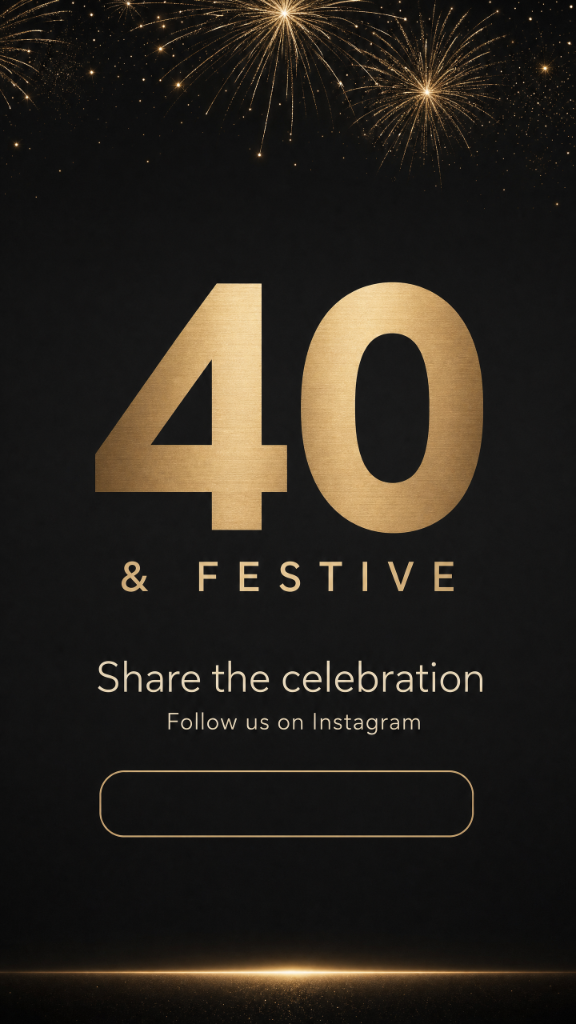
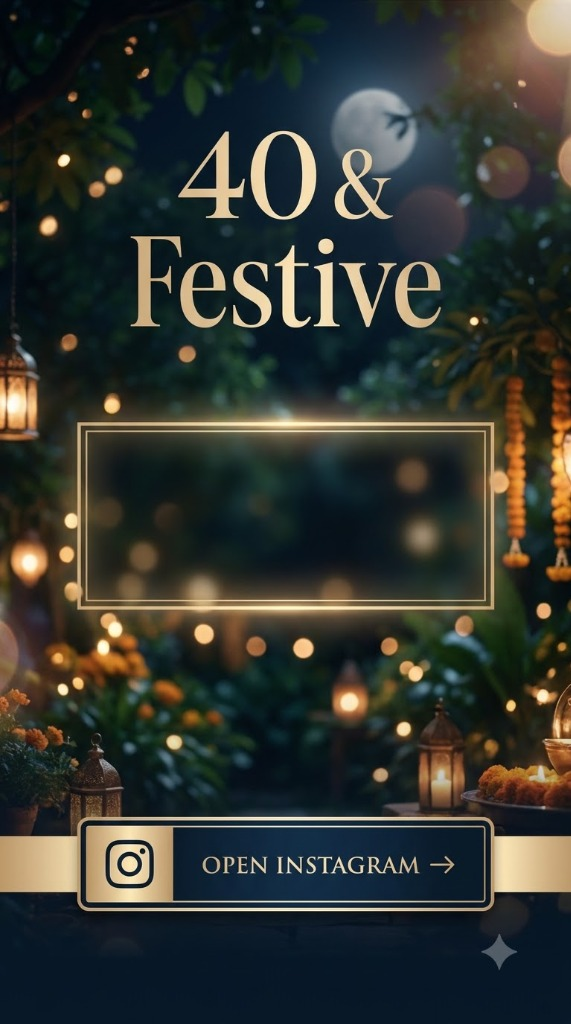
feat: use new Festive Garden 40 & Festive artwork for Instagram page with dynamic golden box text and direct deep-linking

diff --git a/src/components/InstaScreen.tsx b/src/components/InstaScreen.tsx
@@ -9,7 +9,6 @@ interface Props {
 }
 
 export default function InstaScreen({ guest, inviteCode }: Props) {
-  const [copied, setCopied] = useState(false)
   const [tapped, setTapped] = useState(false)
 
   // Resolve strictly individual first name or nickname (never couple!)
@@ -66,10 +65,10 @@ export default function InstaScreen({ guest, inviteCode }: Props) {
   return (
     <div
       onClick={handleOpenInstagram}
-      className="relative w-full h-[100dvh] bg-[#02050B] flex items-center justify-center overflow-hidden cursor-pointer select-none"
+      className="relative w-full h-[100dvh] bg-gradient-to-b from-[#020A15] to-[#081827] flex items-center justify-center overflow-hidden cursor-pointer select-none"
     >
-      {/* 9:16 Portrait Canvas */}
-      <div className="relative w-full max-w-[480px] h-full max-h-[920px] aspect-[9/16] shadow-2xl overflow-hidden flex flex-col justify-between">
+      {/* 571:1024 Portrait Canvas (Matches artwork aspect ratio perfectly) */}
+      <div className="relative w-full max-w-[480px] h-full max-h-[100dvh] aspect-[571/1024] shadow-2xl overflow-hidden flex flex-col justify-between">
         
         {/* Background Artwork */}
         {/* eslint-disable-next-line @next/next/no-img-element */}
@@ -79,30 +78,54 @@ export default function InstaScreen({ guest, inviteCode }: Props) {
           className="absolute inset-0 w-full h-full object-cover pointer-events-none"
         />
 
-        {/* Dynamic Personalised Individual Name (Positioned above Share the celebration) */}
-        {individualName && (
-          <div
-            className="absolute left-0 right-0 text-center pointer-events-none"
-            style={{ top: '61.8%' }}
-          >
-            <p
-              className="text-[#FFF2C2] text-sm sm:text-base tracking-[0.22em] font-serif uppercase font-bold drop-shadow-[0_2px_4px_rgba(0,0,0,0.9)]"
-              style={{
-                textShadow: '0 0 12px rgba(229,190,114,0.6), 0 2px 4px #000000',
-                background: 'linear-gradient(180deg, #FFFFFF 0%, #FFE699 40%, #D4AF37 100%)',
-                WebkitBackgroundClip: 'text',
-                WebkitTextFillColor: 'transparent',
-              }}
-            >
-              DEAR {individualName.toUpperCase()}
-            </p>
-          </div>
-        )}
-
-        {/* Interactive Pill Button Overlay (Positioned exactly over the button in background) */}
+        {/* Dynamic Personalised Golden Box Content (Matches central glowing box) */}
         <div
-          className="absolute left-0 right-0 flex justify-center items-center"
-          style={{ top: '74.2%', height: '7.5%' }}
+          className="absolute flex flex-col items-center justify-center text-center px-4 pointer-events-none"
+          style={{
+            top: '41.7%',
+            left: '14%',
+            width: '72%',
+            height: '16.8%',
+          }}
+        >
+          {/* Top Hook */}
+          <div
+            className="font-serif text-[12px] sm:text-[14px] font-extrabold tracking-[0.14em] uppercase mb-1 drop-shadow-[0_2px_8px_rgba(0,0,0,0.95)]"
+            style={{
+              background: 'linear-gradient(180deg, #FFFFFF 0%, #FFE89E 50%, #E5BE72 100%)',
+              WebkitBackgroundClip: 'text',
+              WebkitTextFillColor: 'transparent',
+            }}
+          >
+            THE PARTY • THE PEOPLE • THE REELS
+          </div>
+
+          {/* Guest Personalization */}
+          <div className="font-sans text-[11px] sm:text-[12.5px] text-white/95 leading-snug mb-1 drop-shadow-[0_1px_4px_rgba(0,0,0,0.9)] max-w-[340px]">
+            {individualName ? (
+              <>
+                Hey <strong className="text-[#FFE699] font-bold">{individualName}</strong>, your access to our celebration continues on Instagram.
+              </>
+            ) : (
+              <>Your access to our celebration continues on Instagram.</>
+            )}
+          </div>
+
+          {/* Subtitle */}
+          <div className="font-sans text-[9.5px] sm:text-[11px] text-[#E5D0A1]/85 leading-snug max-w-[320px]">
+            Watch the cameraman&apos;s reels &amp; catch the celebration moments.
+          </div>
+        </div>
+
+        {/* Interactive Hit-target Overlay directly over the bottom [ OPEN INSTAGRAM ➔ ] ribbon */}
+        <div
+          className="absolute flex justify-center items-center"
+          style={{
+            top: '81.8%',
+            left: '13.6%',
+            width: '72.8%',
+            height: '8.1%',
+          }}
         >
           <button
             type="button"
@@ -110,55 +133,27 @@ export default function InstaScreen({ guest, inviteCode }: Props) {
               e.stopPropagation()
               handleOpenInstagram()
             }}
-            className="relative w-[68%] h-[88%] rounded-full flex items-center justify-center gap-2.5 transition-all duration-200 transform active:scale-95 group focus:outline-none"
+            className="relative w-full h-full rounded-2xl flex items-center justify-center transition-all duration-200 transform active:scale-95 group focus:outline-none"
             style={{
-              background: 'linear-gradient(180deg, rgba(229,190,114,0.12) 0%, rgba(186,136,56,0.22) 100%)',
-              boxShadow: '0 0 20px rgba(212,175,55,0.35), inset 0 0 10px rgba(255,248,224,0.25)',
+              background: 'transparent',
             }}
             title="Tap to open @40andfestive in Instagram"
           >
-            {/* Shimmering pulse border ring */}
+            {/* Subtle shimmering gold glow around the button on hover/pulse */}
             <span
-              className="absolute -inset-1 rounded-full border border-amber-300/40 animate-pulse pointer-events-none"
-              style={{ animationDuration: '2s' }}
+              className="absolute -inset-1 rounded-2xl border border-amber-300/30 group-hover:border-amber-300/60 animate-pulse pointer-events-none"
+              style={{ animationDuration: '2.5s' }}
             />
-
-            {/* Official Instagram Camera SVG Icon */}
-            <svg
-              className="w-5 h-5 sm:w-6 sm:h-6 shrink-0 text-[#FFE58F] filter drop-shadow-[0_2px_4px_rgba(0,0,0,0.8)]"
-              viewBox="0 0 24 24"
-              fill="none"
-              stroke="currentColor"
-              strokeWidth="2.2"
-              strokeLinecap="round"
-              strokeLinejoin="round"
-            >
-              <rect x="2" y="2" width="20" height="20" rx="5" ry="5" />
-              <path d="M16 11.37A4 4 0 1 1 12.63 8 4 4 0 0 1 16 11.37z" />
-              <line x1="17.5" y1="6.5" x2="17.51" y2="6.5" strokeWidth="2.8" />
-            </svg>
-
-            {/* Handle Text in Gold Calligraphic Serif */}
-            <span
-              className="font-serif text-xs sm:text-sm font-bold tracking-wider uppercase text-[#FFF3CC] drop-shadow-[0_2px_4px_rgba(0,0,0,0.9)]"
-              style={{
-                background: 'linear-gradient(180deg, #FFFFFF 0%, #FFE28A 45%, #D4A836 100%)',
-                WebkitBackgroundClip: 'text',
-                WebkitTextFillColor: 'transparent',
-              }}
-            >
-              @40andfestive
-            </span>
           </button>
         </div>
 
         {/* Gentle hint at bottom */}
         <div
           className="absolute left-0 right-0 text-center pointer-events-none"
-          style={{ bottom: '4%' }}
+          style={{ bottom: '2%' }}
         >
-          <span className="text-[10px] tracking-widest uppercase text-amber-200/50 font-mono">
-            {tapped ? 'Opening Instagram...' : 'Tap anywhere to open Instagram'}
+          <span className="text-[9.5px] tracking-widest uppercase text-amber-200/50 font-mono">
+            {tapped ? 'Opening Instagram (@40andfestive)...' : 'Tap anywhere to open @40andfestive'}
           </span>
         </div>
 
